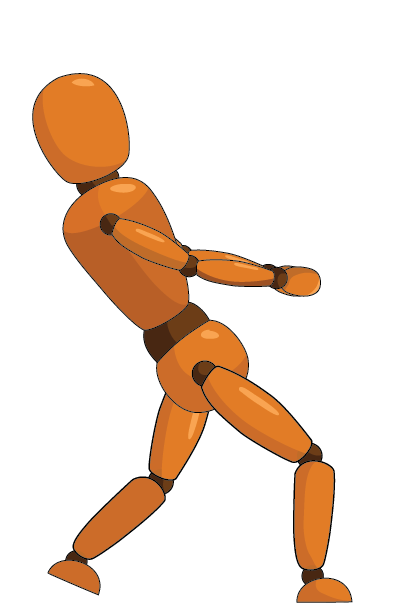
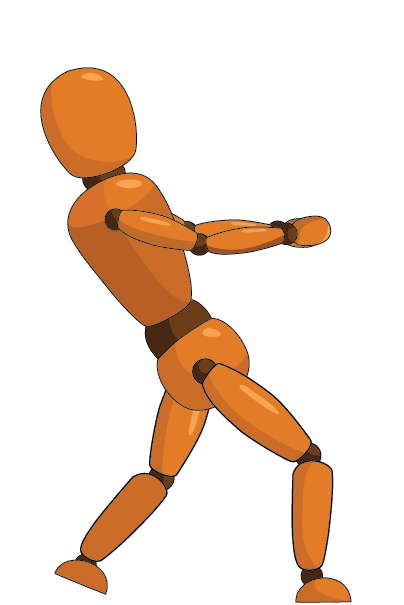
step function object overlap checking moved to linked function (see https://github.com/phetsims/inverse-square-law-common/issues/10), updated single puller image (fixes https://github.com/phetsims/inverse-square-law-common/issues/11), zeroForceImage separated from other images (fixes https://github.

diff --git a/js/model/InverseSquareLawModel.js b/js/model/InverseSquareLawModel.js
@@ -20,7 +20,7 @@ define( function( require ) {
   var TBoolean = require( 'ifphetio!PHET_IO/types/TBoolean' );
 
   // constants
-  var PULL_OBJECT_WIDTH = 1.62; // empirically determined for model space in meters
+  // var PULL_OBJECT_WIDTH = -2; // empirically determined for model space in meters
   var DISTANCE_DECIMAL_PRECISION = 3; // limit precision so small changes are not propogated to the force
 
   /**
@@ -34,6 +34,8 @@ define( function( require ) {
    * @param {object} options
    */
   function InverseSquareLawModel( forceConstant, object1, object2, leftBoundary, rightBoundary, tandem, options ) {
+
+    var self = this;
 
     options = _.extend( {
       snapObjectsToNearest: null, // {number} if defined, objects will snap to nearest value in model coordinates
@@ -78,75 +80,61 @@ define( function( require ) {
            return forceConstant * v1 * v2 / ( distance * distance );
        }
     );
+
+    // handles object overlap checking when radius or position is changed
+    Property.multilink( [
+    this.object1.positionProperty,
+    this.object1.radiusProperty, 
+    this.object2.positionProperty,
+    this.object2.radiusProperty ],
+    function( object1Position, object1Radius, object2Position, object2Radius ) {
+
+      // minimum intended separation between the centers of the objects
+      // consider renaming this and associated option to be more semantic
+      //    - e.g. minCenterSeparation & minEdgeSeparation
+      // we may also want 
+      var minCenterSeparation = object1Radius + object2Radius + self.minSeparationBetweenObjects;
+
+      // these represent the leftmost and rightmost possible midpoints between the charges/masses
+      var maxLeftMidpoint = self.leftObjectBoundary + ( 2 * object1Radius ) + ( minCenterSeparation / 2 );
+      var maxRightMidpoint = self.rightObjectBoundary - (2 *  object2Radius ) - ( minCenterSeparation / 2 );
+
+      // ensure that the new locations are at or within their respective boundaries
+      var updatedObject1Position = Math.max( object1Position, self.leftObjectBoundary );
+      var updatedObject2Position = Math.min( object2Position, self.rightObjectBoundary );
+
+      var currentMidpoint = Util.roundSymmetric( ( updatedObject1Position + updatedObject2Position ) / 2 );
+
+      if ( currentMidpoint < maxLeftMidpoint ) {
+        // object1 is at boundary, move object2
+        updatedObject2Position = updatedObject1Position + minCenterSeparation;
+      } else if ( currentMidpoint > maxRightMidpoint ) {
+        // object2 is at boundary, move object1
+        updatedObject1Position = updatedObject2Position - minCenterSeparation;
+      }
+
+      if ( Math.abs( updatedObject2Position - updatedObject1Position ) < minCenterSeparation ) {
+        updatedObject1Position = currentMidpoint - ( self.minSeparationBetweenObjects + object1Radius );
+        updatedObject2Position = currentMidpoint + ( self.minSeparationBetweenObjects + object2Radius );
+      }
+
+      if ( updatedObject1Position !== object1Position ) {
+        updatedObject1Position = Util.toFixedNumber( updatedObject1Position, DISTANCE_DECIMAL_PRECISION );
+        updatedObject1Position = self.snapToGrid( updatedObject1Position );
+        self.object1.positionProperty.set( updatedObject1Position );
+      }
+
+      if ( updatedObject2Position !== object2Position ) {
+        updatedObject2Position = Util.toFixedNumber( updatedObject2Position, DISTANCE_DECIMAL_PRECISION );
+        updatedObject2Position = self.snapToGrid( updatedObject2Position );
+        self.object2.positionProperty.set( updatedObject2Position );
+      }
+    } );
   }
 
   inverseSquareLawCommon.register( 'InverseSquareLawModel', InverseSquareLawModel );
 
   return inherit( Object, InverseSquareLawModel, {
-
-    /**
-     * step function makes sure masses doesn't goes out of bounds and don't overlap each other at each time step
-     * @public
-     */
-    step: function() {
-      var minX = this.leftObjectBoundary + PULL_OBJECT_WIDTH + this.object1.radiusProperty.get();
-      var maxX = this.rightObjectBoundary - PULL_OBJECT_WIDTH - this.object2.radiusProperty.get();
-      var locationMass1 = this.object1.positionProperty.get();
-      var locationMass2 = this.object2.positionProperty.get();
-
-      var changeFactor = 0.0001; // this is empirically determined larger change factor may make masses farther but converges faster
-      var sumRadius = this.getSumRadiusWithSeparation();
-      var changed = false;
-
-      // for loop is to make sure after checking the boundaries constraints masses don't overlap
-      for ( var i = 0; i < 10; i++ ) {
-
-        // check for overlap and move both masses so that they don't overlap
-        if ( Math.abs( locationMass1 - locationMass2 ) < sumRadius ) {
-          while ( Math.abs( locationMass1 - locationMass2 ) < sumRadius ) {
-            locationMass1 = locationMass1 - changeFactor;
-            locationMass2 = locationMass2 + changeFactor;
-
-            changed = true;
-          }
-        }
-
-        // make sure mass1 doesn't go out of left boundary
-        if ( locationMass1 < minX ) {
-          locationMass1 = Math.max( minX, locationMass1 );
-          changed = true;
-        }
-
-        // make sure mass2 doesn't go out of right boundary
-        if ( locationMass2 > maxX ) {
-          locationMass2 = Math.min( maxX, locationMass2 );
-
-          changed = true;
-        }
-        if ( !changed ) {
-          break;
-        }
-      }
-
-      // round to the nearest thousandths so that very small changes in distance do not show up as changes during
-      // these corrections
-      locationMass1 = Util.toFixedNumber( locationMass1, DISTANCE_DECIMAL_PRECISION );
-      locationMass2 = Util.toFixedNumber( locationMass2, DISTANCE_DECIMAL_PRECISION );
-
-      // if objects are limited to a certain precision, round position values to that precision
-      locationMass1 = this.snapToGrid( locationMass1 );
-      locationMass2 = this.snapToGrid( locationMass2 );
-
-      this.object1.positionProperty.set( locationMass1 );
-      this.object2.positionProperty.set( locationMass2 );
-
-      // Force might not have been changed but positions might have changed, therefore to ensure everything is in bounds
-      // inside the view
-      this.forceProperty.notifyListenersStatic();
-
-      // broadcast a message that we have updated the model
-      this.stepEmitter.emit();
-    },
 
     /**
      * Returns the sum of the radii of the two spherical objects in this sim, plus the model's min separation between
@@ -177,7 +165,7 @@ define( function( require ) {
       else if ( object.positionProperty.get() === this.object2.positionProperty.get() ) {
 
         // the max value for the right object is the right edge minus the puller width and the radius of the obejct
-        maxX = this.rightObjectBoundary - PULL_OBJECT_WIDTH - this.object2.radiusProperty.get();
+        maxX = this.rightObjectBoundary - /*PULL_OBJECT_WIDTH -*/ this.object2.radiusProperty.get();
       }
 
       return this.snapToGrid( maxX );
@@ -196,7 +184,7 @@ define( function( require ) {
       if ( object.positionProperty.get() === this.object1.positionProperty.get() ) {
         
         // the min value for the left object is the left edge plus the puller width and the radius of the object
-        minX = this.leftObjectBoundary + PULL_OBJECT_WIDTH + this.object1.radiusProperty.get();
+        minX = this.leftObjectBoundary + /*PULL_OBJECT_WIDTH +*/ this.object1.radiusProperty.get();
       }
       else if ( object.positionProperty.get() === this.object2.positionProperty.get() ) {
 

diff --git a/js/view/PullerPusherNode.js b/js/view/PullerPusherNode.js
@@ -87,7 +87,7 @@ define( function( require ) {
   var pushImage29 = require( 'image!INVERSE_SQUARE_LAW_COMMON/pusher_29.png' );
   var pushImage30 = require( 'image!INVERSE_SQUARE_LAW_COMMON/pusher_30.png' );
 
-  var pullImages = [ zeroForceImage, pullImage0, pullImage1, pullImage2, pullImage3, pullImage4, pullImage5, pullImage6, pullImage7,
+  var pullImages = [ pullImage0, pullImage1, pullImage2, pullImage3, pullImage4, pullImage5, pullImage6, pullImage7,
     pullImage8, pullImage9, pullImage10, pullImage11, pullImage12, pullImage13, pullImage14, pullImage15, pullImage16,
     pullImage17, pullImage18, pullImage19, pullImage20, pullImage21, pullImage22, pullImage23, pullImage24, pullImage25,
     pullImage26, pullImage27, pullImage28, pullImage29, pullImage30 ];
@@ -126,7 +126,7 @@ define( function( require ) {
 
     // if in coulomb's law sim, add pusher and zero force images in proper order
     if (options.attractNegative) {
-      this.pullerPusherImages = pushImages.concat( pullImages );
+      this.pullerPusherImages = pushImages.concat( zeroForceImage ).concat( pullImages );
 
       this.zeroForceIndex = 31;
     }

diff --git a/js/view/ObjectNode.js b/js/view/ObjectNode.js
@@ -124,7 +124,7 @@ define( function( require ) {
     this.modelViewTransform = modelViewTransform;
     this.forceArrowHeight = options.forceArrowHeight;
 
-    // @orotected - arrow node
+    // @protected - arrow node
     this.arrowNode = new ISLForceArrowNode( arrowForceRange, layoutBounds, tandem.createTandem( 'forceArrowNode' ), arrowOptions );
 
     // set y position for the arrow
@@ -224,7 +224,6 @@ define( function( require ) {
         clickOffset = dragNode.globalToParentPoint( event.pointer.point ).x - event.currentTarget.x;
       },
       drag: function( event ) {
-
         // drag position relative to the pointer pointer start position
         var x = self.globalToParentPoint( event.pointer.point ).x - clickOffset;
 
@@ -259,7 +258,6 @@ define( function( require ) {
           // back to view coordinates
           x = modelViewTransform.modelToViewX( snappedX );
         }
-
         objectModel.positionProperty.set( Util.toFixedNumber( modelViewTransform.viewToModelX( x ), 3 ) );
       },
       tandem: tandem.createTandem( 'objectDragHandler' )
